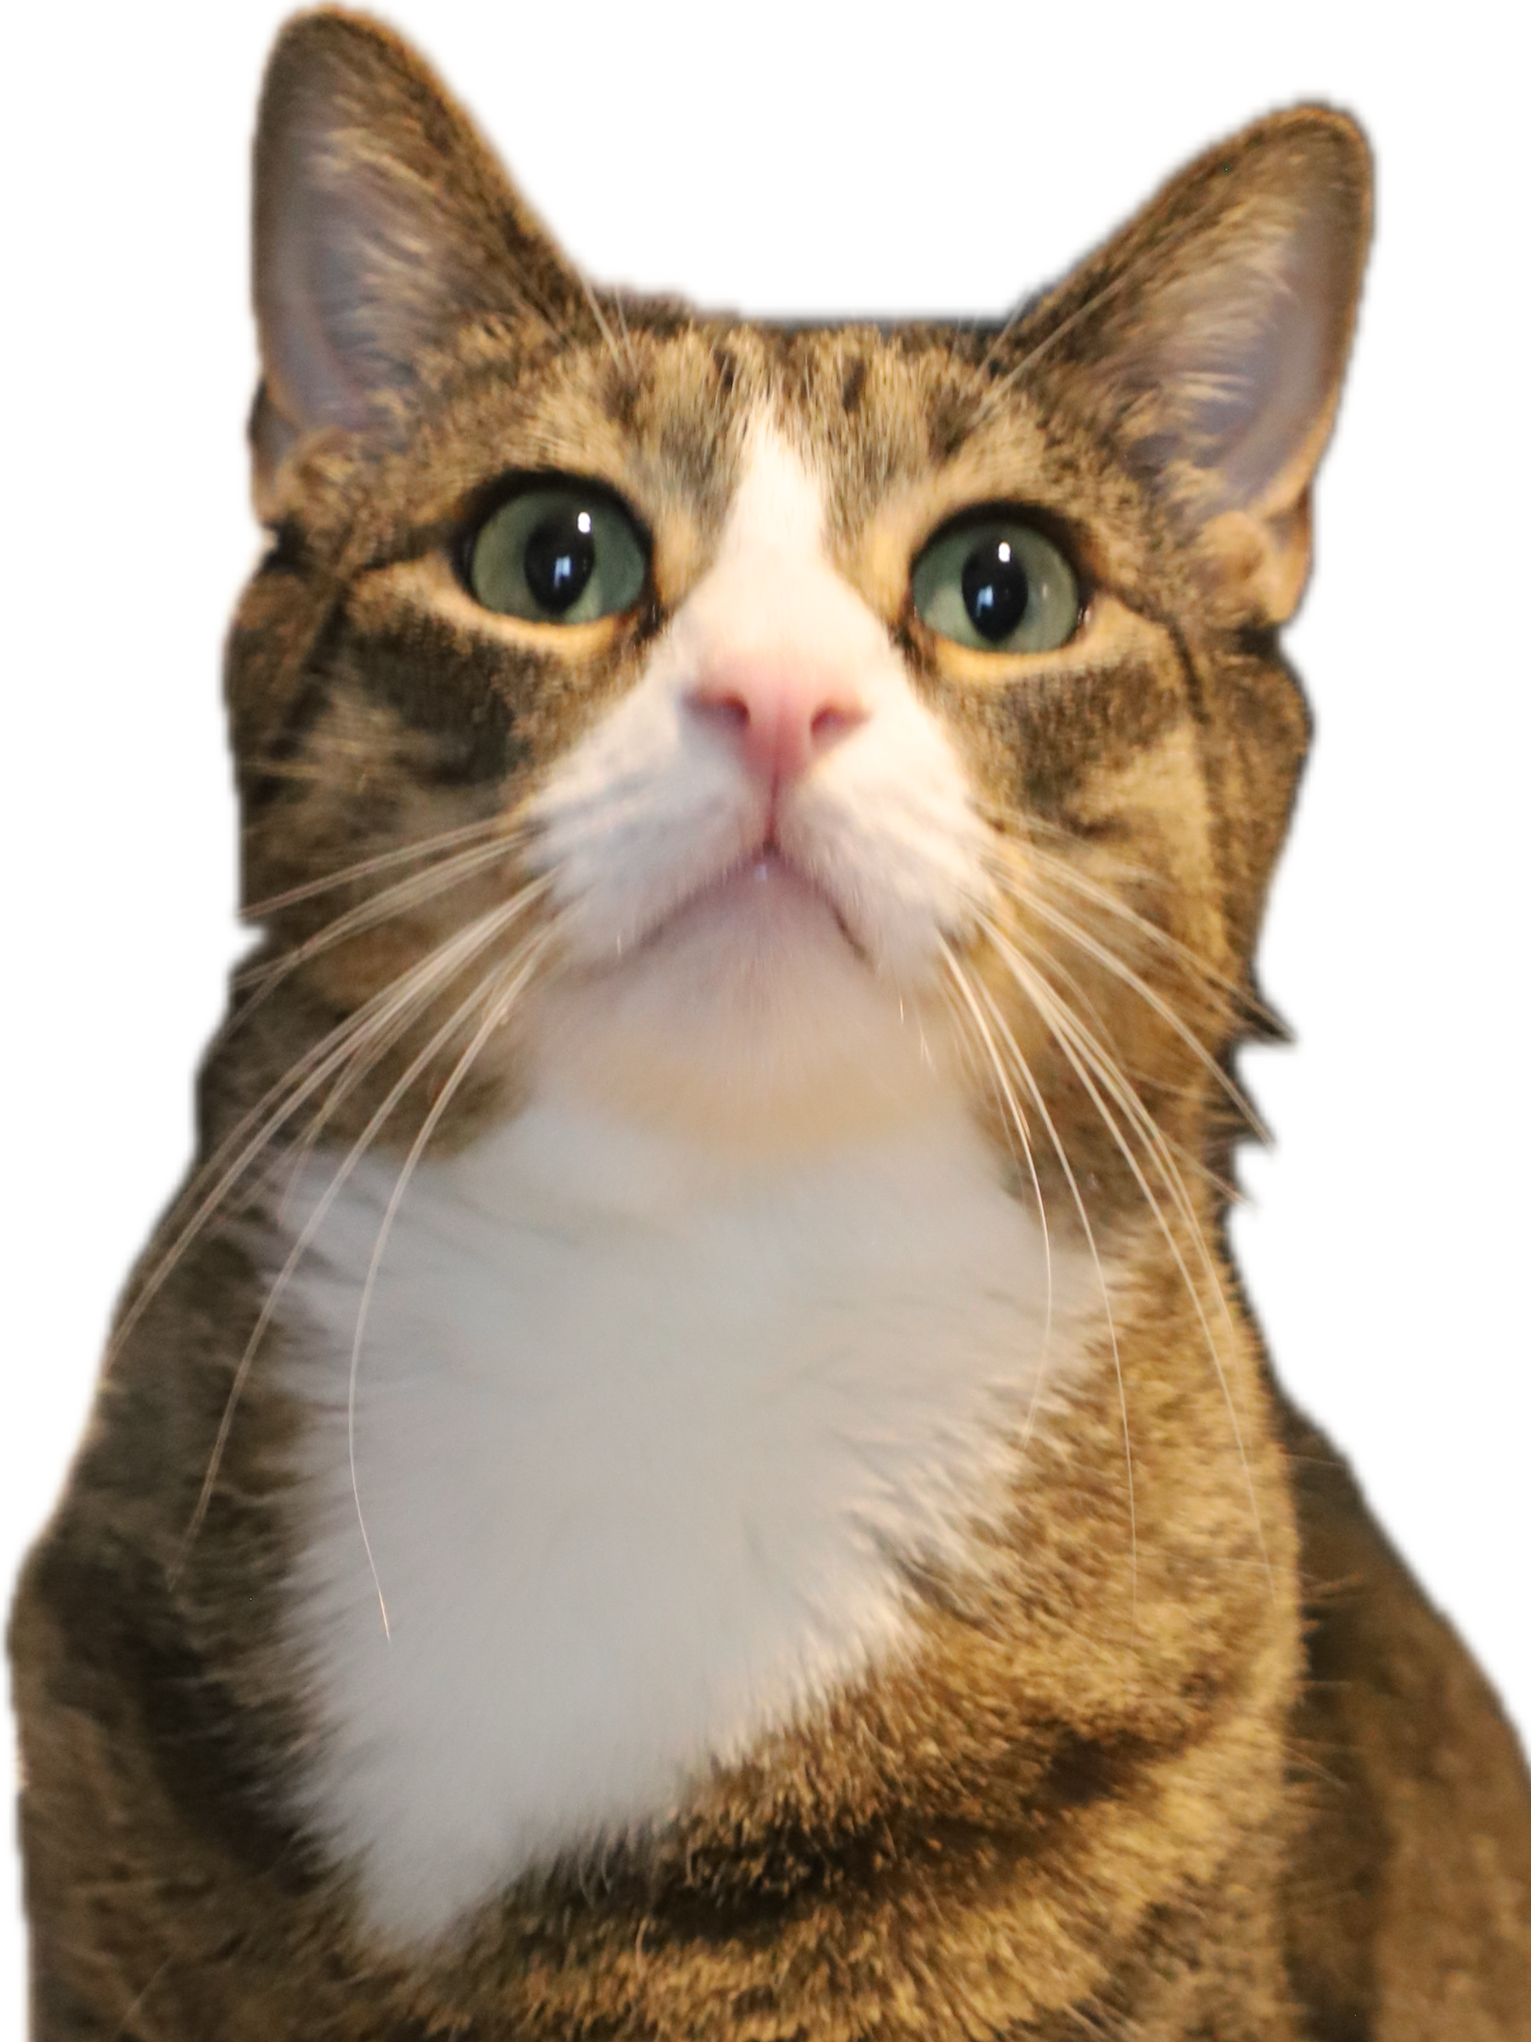
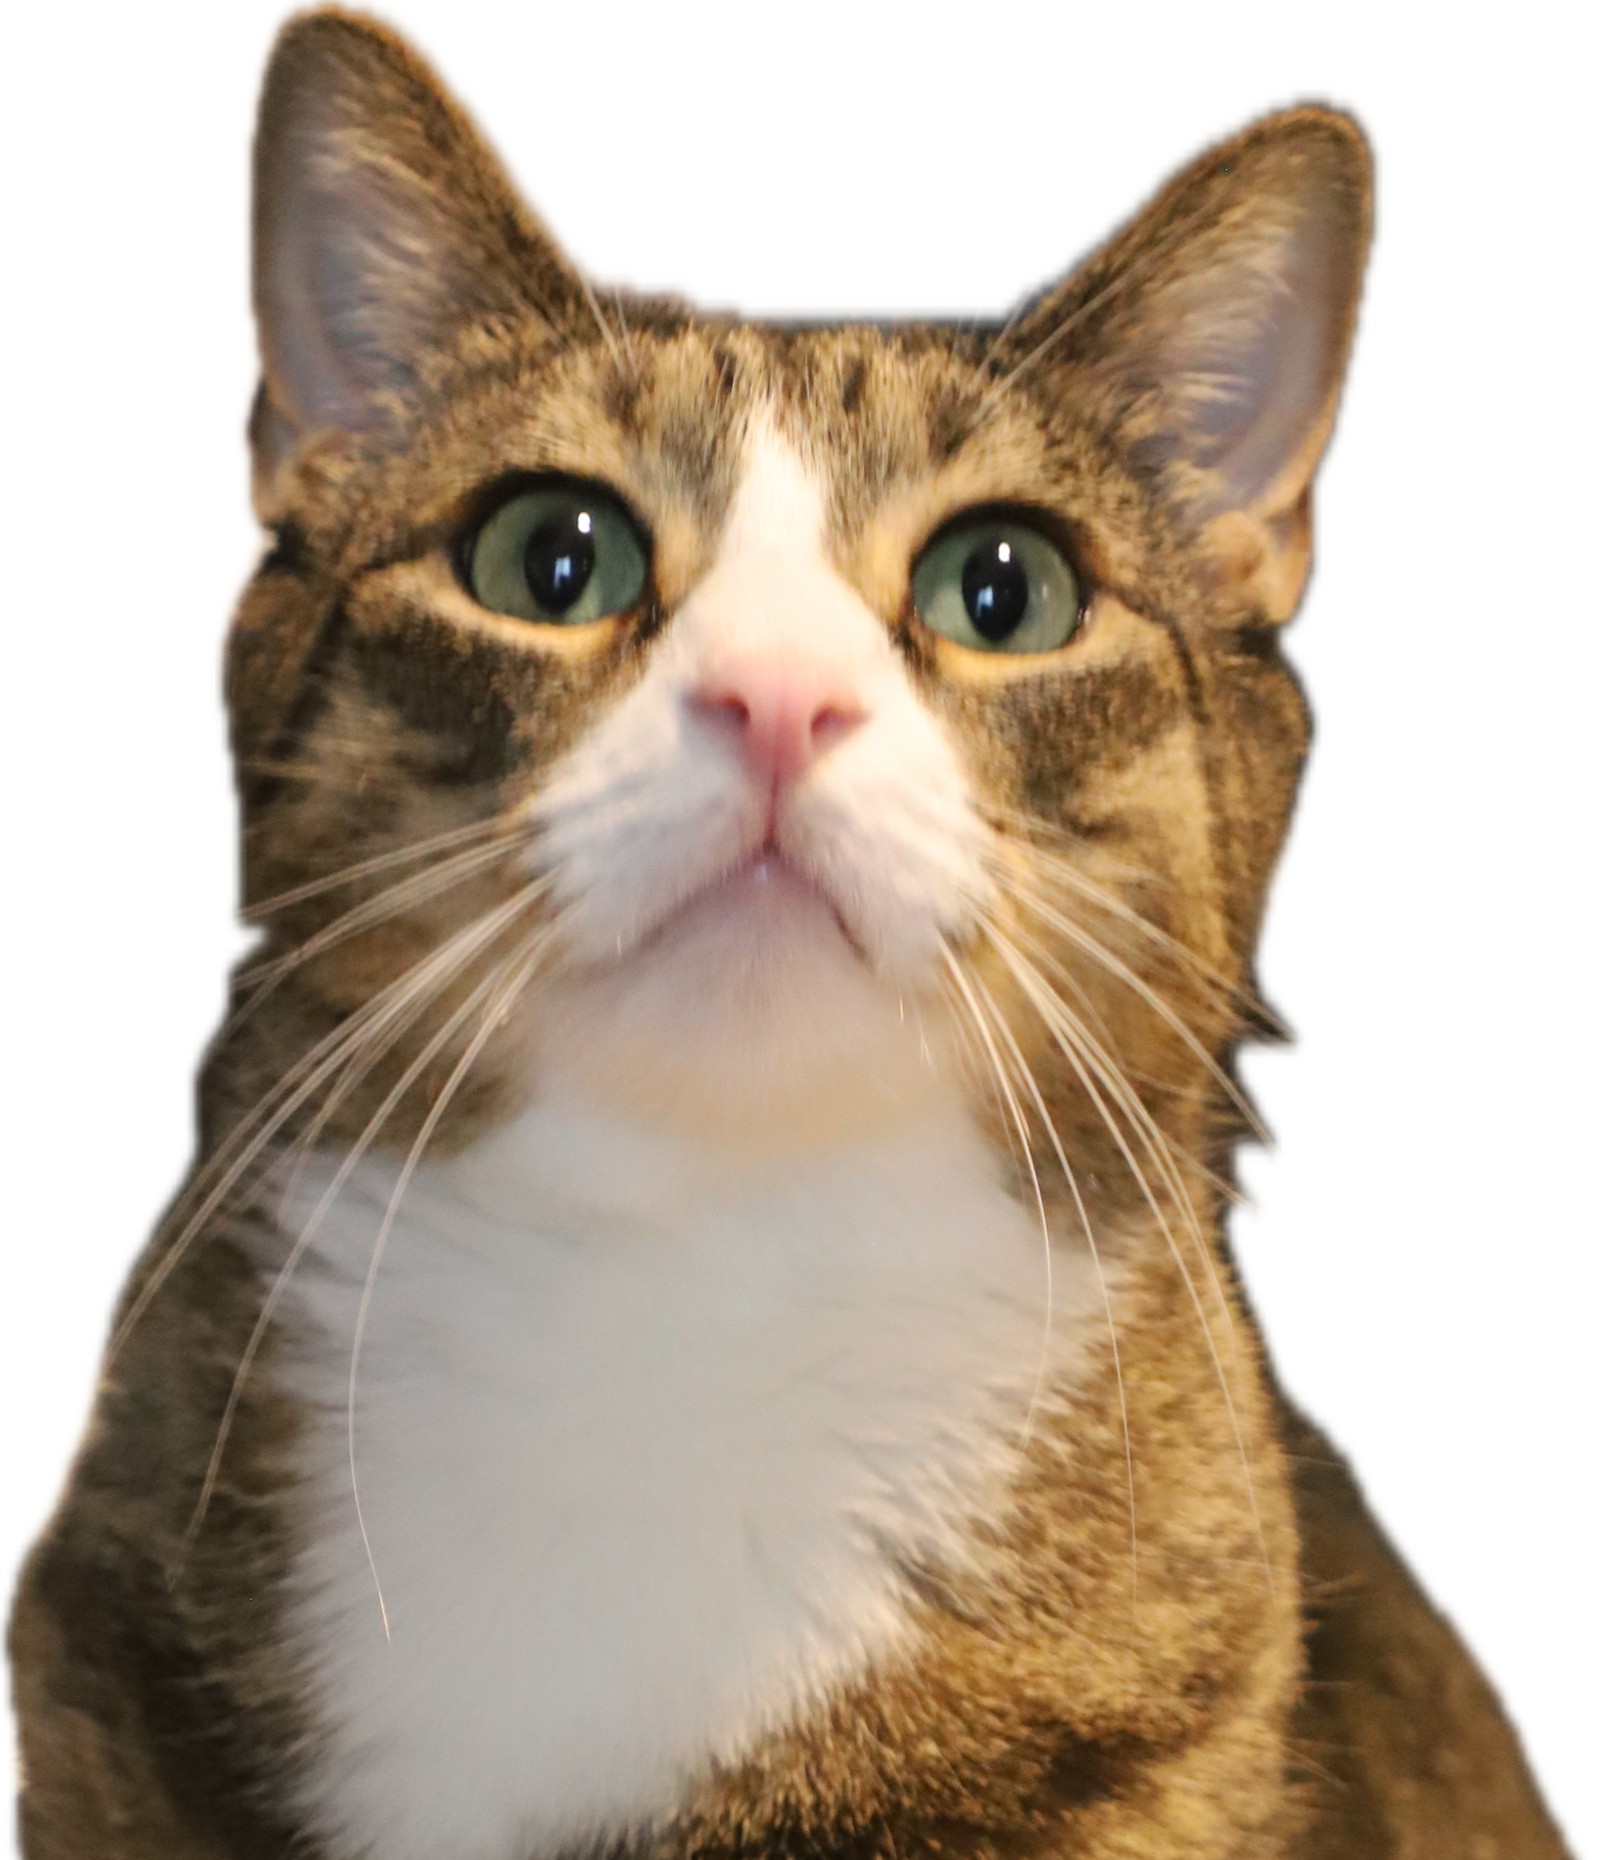
small edits

diff --git a/assets/css/style.css b/assets/css/style.css
@@ -325,8 +325,7 @@ a:hover {
   width: 180px;
   height: 180px;
   object-fit: cover;
-  object-position: center;
-  border-radius: 50%;
+  border-radius: 30%;
   display: block;
 }
 
